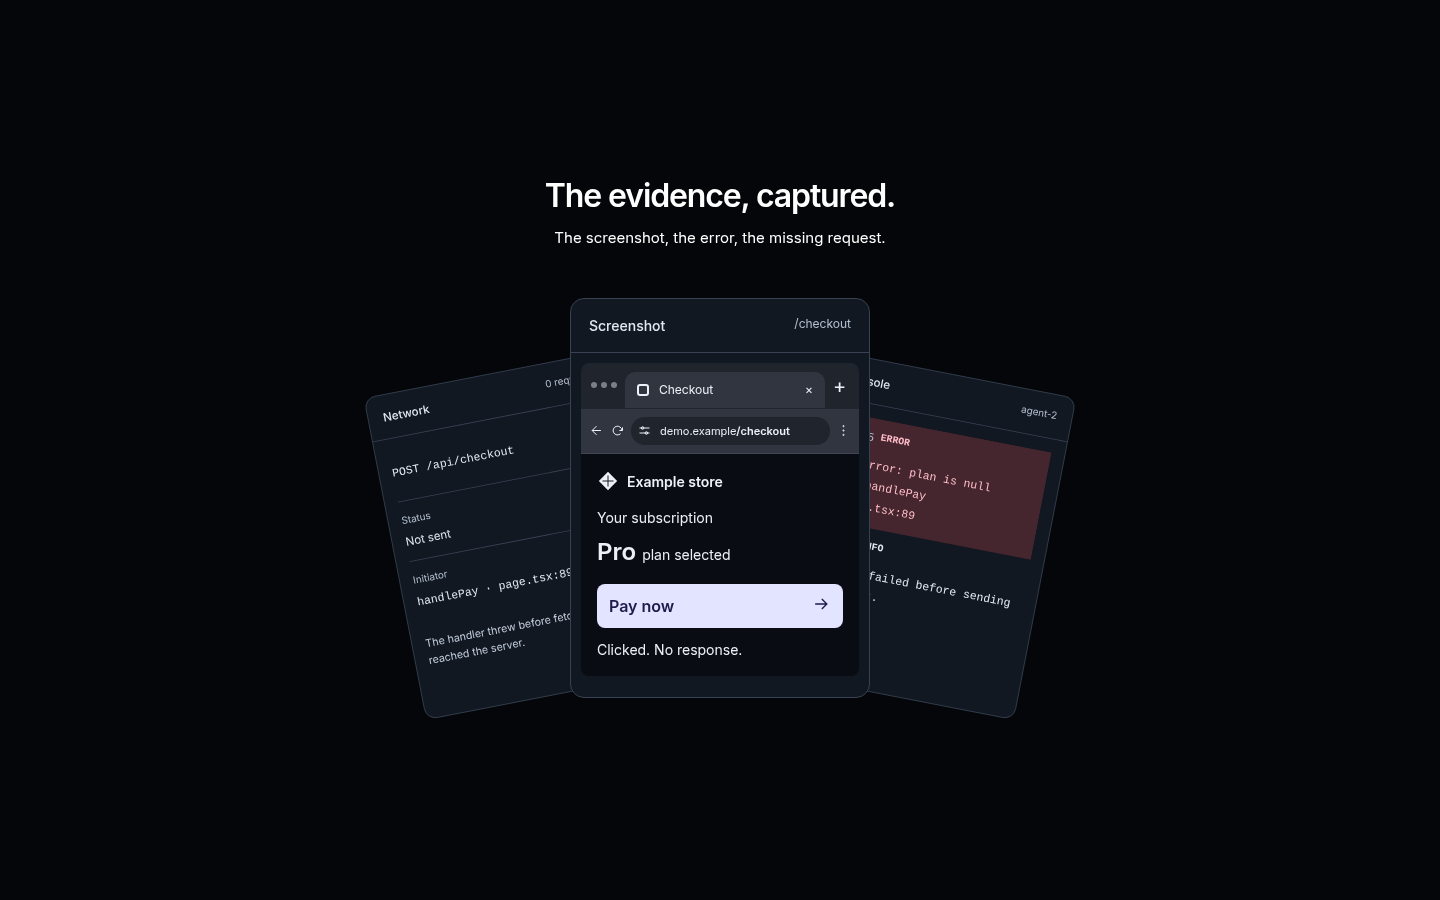
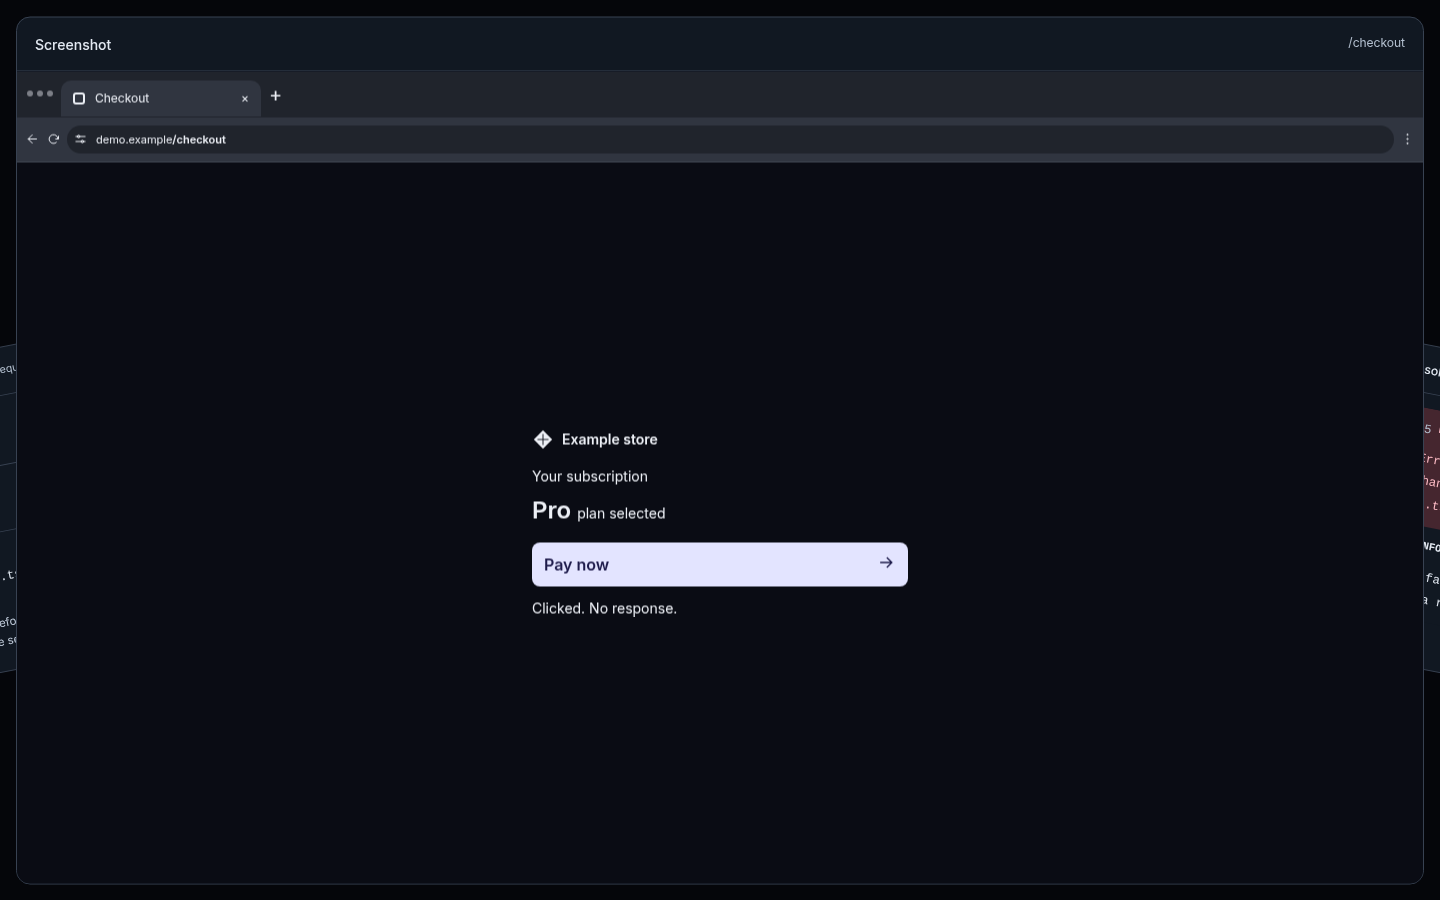
Expand evidence playing cards into viewport-sized browser and tool windows

diff --git a/app/globals.css b/app/globals.css
@@ -279,7 +279,7 @@ body {
 .sample-store-icon { width: 22px; height: 22px; flex-shrink: 0; }
 .sample-pay-arrow { width: 20px; height: 20px; fill: none; stroke: currentColor; stroke-width: 1.6; flex-shrink: 0; }
 
-/* The entire scene stays centered for four scroll beats, then leaves with its runway. */
+/* Scenes stay centered through their scroll beats, then leave with the runway. */
 .run-branch { display: inline-flex; align-items: center; gap: 7px; flex-wrap: wrap; font-size: 13px; font-weight: 500; }
 .run-scroll-sequence { margin-top: 64px; }
 .run-scene { padding-block: 48px; }
@@ -340,5 +340,22 @@ html[data-run-pinned] nav[aria-label="Main navigation"] { visibility: hidden; po
 .evidence-network dd { font-size: 14px; overflow-wrap: anywhere; }
 .evidence-network-note { margin-top: 16px; color: #c3cedd; font-size: 13px; line-height: 1.6; }
 [data-pinned] .evidence-fan { position: relative; display: block; height: 440px; perspective: 1000px; }
-[data-pinned] .evidence-card { position: absolute; top: 24px; left: 50%; width: min(300px, 78%); height: 400px; min-height: 0; transform-origin: 50% 70%; transform: translateX(-50%) translate(var(--card-x, 0px), var(--card-y, 14px)) rotate(var(--card-rotate, 0deg)) scale(var(--card-scale, .82)); transition: transform 650ms cubic-bezier(0.16, 1, 0.3, 1); }
+[data-pinned] .evidence-card { position: absolute; top: 50%; left: 50%; width: var(--card-width, 260px); height: var(--card-height, 364px); min-height: 0; transform-origin: 50% 50%; transform: translate(-50%, -50%) translate(var(--card-x, 0px), var(--card-y, 14px)) rotate(var(--card-rotate, 0deg)) scale(var(--card-scale, .88)); transition: width 700ms cubic-bezier(0.16, 1, 0.3, 1), height 700ms cubic-bezier(0.16, 1, 0.3, 1), transform 700ms cubic-bezier(0.16, 1, 0.3, 1); }
+/* The frame clips parked cards at the viewport edge, without creating page overflow. */
+[data-pinned] .run-pinned-frame { width: 100vw; margin-left: calc(50% - 50vw); padding-inline: 24px; overflow: clip; }
+.run-scene-caption { transition: opacity 200ms ease; }
+[data-pinned] article:has([data-evidence-fan][data-front]:not([data-front="-1"])) > .run-scene-caption { opacity: 0; }
+[data-pinned] .evidence-card[data-front="true"] > .evidence-card-body { height: calc(100% - 53px); padding: 24px; }
+[data-pinned] .evidence-card[data-front="true"] > .evidence-browser { padding: 0; }
+[data-pinned] .evidence-card[data-front="true"] .sample-checkout { height: 100%; display: flex; flex-direction: column; border-radius: 0; }
+[data-pinned] .evidence-card[data-front="true"] .sample-checkout-body { flex: 1; display: flex; flex-direction: column; justify-content: center; width: min(100%, 440px); margin-inline: auto; padding: 32px; }
+[data-pinned] .evidence-card[data-front="true"] .sample-pay { width: 100%; max-width: none; }
+[data-pinned] .evidence-card[data-front="true"] .evidence-request { font-size: 16px; padding-bottom: 32px; }
+[data-pinned] .evidence-card[data-front="true"] .evidence-network-note { max-width: 60ch; }
+@media (min-width: 768px) {
+  [data-pinned] .evidence-card[data-front="true"] .run-log-entry { grid-template-columns: 5ch 5ch minmax(0, 1fr); padding: 16px; }
+  [data-pinned] .evidence-card[data-front="true"] .run-log-entry > span:last-of-type { grid-column: auto; }
+  [data-pinned] .evidence-card[data-front="true"] .evidence-network dl { display: grid; grid-template-columns: 1fr 1fr; gap: 32px; }
+}
+
 @media (prefers-reduced-motion: reduce) { .evidence-card { transition: none !important; transform: none !important; } }

diff --git a/components/RunScrollSequence.tsx b/components/RunScrollSequence.tsx
@@ -79,24 +79,55 @@ export default function RunScrollSequence({
         const open = Math.min(1, local / 0.7);
         const front = local < 1 ? -1 : Math.min(2, Math.floor(local - 1));
         fan.dataset.front = String(front);
-        const cardWidth = cards[0].offsetWidth;
-        const cardHeight = cards[0].offsetHeight;
+        const cardWidth = Math.min(260, fan.clientWidth * 0.7);
+        const cardHeight = cardWidth * 1.4;
         const spread = Math.max(
           12,
-          (fan.clientWidth - (cardWidth * 0.982 + cardHeight * 0.191) * 0.82) /
+          (fan.clientWidth - (cardWidth * 0.982 + cardHeight * 0.191) * 0.88) /
             2 -
             6,
         );
+        const captionHeight =
+          fan.closest<HTMLElement>(".run-scene-content")!.offsetHeight -
+          fan.offsetHeight;
+        const availableWidth = window.innerWidth - 32;
+        const availableHeight = window.innerHeight - 32;
+        const windows = [
+          { width: availableWidth, height: availableHeight },
+          {
+            width: Math.min(1000, availableWidth),
+            height: Math.min(600, availableHeight - 32),
+          },
+          {
+            width: Math.min(1200, availableWidth),
+            height: Math.min(720, availableHeight - 16),
+          },
+        ];
         cards.forEach((card, index) => {
           let side = index - 1;
           if (front >= 0)
             side = index === front ? 0 : (index - front + 3) % 3 === 1 ? 1 : -1;
           const focused = index === front;
           card.dataset.front = String(focused);
-          card.style.setProperty("--card-x", `${side * spread * open}px`);
+          const parked = front >= 0 && !focused;
+          const x = parked
+            ? side * (window.innerWidth / 2 + cardWidth * 0.12)
+            : side * spread * open;
+          card.style.setProperty(
+            "--card-width",
+            `${focused ? windows[index].width : cardWidth}px`,
+          );
+          card.style.setProperty(
+            "--card-height",
+            `${focused ? windows[index].height : cardHeight}px`,
+          );
+          card.style.setProperty("--card-x", `${x}px`);
           card.style.setProperty("--card-rotate", `${side * 11 * open}deg`);
-          card.style.setProperty("--card-scale", String(focused ? 1 : 0.82));
-          card.style.setProperty("--card-y", `${focused ? -8 : 14}px`);
+          card.style.setProperty("--card-scale", String(focused ? 1 : 0.88));
+          card.style.setProperty(
+            "--card-y",
+            `${focused ? -captionHeight / 2 : 14}px`,
+          );
           card.style.zIndex = String(focused ? 4 : index === 1 ? 2 : 1);
         });
       }

diff --git a/components/RunEvidence.tsx b/components/RunEvidence.tsx
@@ -2,8 +2,6 @@
 
 import { LogBlock } from "./SampleRunBlocks";
 
-const TABS = ["Screenshot", "Console", "Network"] as const;
-
 export function CheckoutSnapshot() {
   return (
     <div

diff --git a/docs/landing-review/README.md b/docs/landing-review/README.md
@@ -1,6 +1,6 @@
 # Scroll-driven evidence fan
 
-The evidence step now shows three portrait cards instead of tabs: Screenshot, Console and Network. They unfold into a left/center/right fan. Continued scrolling brings each card into the center at full size while the others sit behind it, smaller and rotated. No glow, tint or highlight marks the selected card. The heading stays anchored; the three cards share a fixed-height stage.
+The evidence step now shows three portrait cards instead of tabs: Screenshot, Console and Network. They unfold into a left/center/right fan. Continued scrolling morphs the selected card from playing-card proportions into its own browser or tool-window dimensions. The browser fills the viewport with a 16px margin; Console opens up to 1000×600 and Network up to 1200×720, constrained to fit the screen. Other cards retain their playing-card proportions and move to the viewport edges. Reverse scrolling returns to the fan. No glow, tint or highlight marks the selected card. The heading stays anchored; the three cards share a fixed-height stage.
 
 The browser, evidence, diagnosis and PR still form one centered pinned sequence. Evidence gets four scroll beats: fan opening, screenshot forward, console forward and network forward. The page releases after the PR. Native scrolling remains in place, and the floating site nav is hidden during the sequence.
 
@@ -8,7 +8,7 @@ Reduced motion, JavaScript-disabled browsers and short viewports show the three 
 
 ## Evidence sequence
 
-| Viewport / theme | Fan opens | Screenshot forward | Console forward | Network forward |
+| Viewport / theme | Fan opens | Browser window | Console window | Network window |
 | --- | --- | --- | --- | --- |
 | 1440 × 900 / light | [View](fan/1440-light-0.png) | [View](fan/1440-light-1.png) | [View](fan/1440-light-2.png) | [View](fan/1440-light-3.png) |
 | 1440 × 900 / dark | [View](fan/1440-dark-0.png) | [View](fan/1440-dark-1.png) | [View](fan/1440-dark-2.png) | [View](fan/1440-dark-3.png) |
@@ -30,7 +30,8 @@ These after images show the reduced-motion stacked fallback. Before images use t
 ## Verification
 
 - Installation, typecheck, production build and diff checks pass. The repository has no lint or test scripts.
-- All three viewport sizes in both themes: fan opens; each card grows and comes forward in order; caption position stays fixed; front-card content is not clipped; no horizontal overflow; the pinned sequence releases afterward. See fan-verification.jsonl.
+- All three viewport sizes in both themes: each card expands to its actual window dimensions; windows stay centered and inside the viewport; other cards park at the sides in playing-card proportions; reverse scrolling restores the fan; no clipped window content or horizontal document overflow. See expanded-verification.jsonl.
+- Width, height and transform animate together over 700ms. The heading fades while a window is expanded so it stays out of the way. The pinned stage keeps its reserved height during the expansion.
 - Reduced motion and JavaScript-disabled checks confirm all three cards remain readable without transforms or pinning.
 - Axe WCAG A/AA checks, including text contrast, pass in both themes with no violations or incomplete checks. The stacked fallback exposes all three cards to the audit. See accessibility.jsonl.
 - CTA destinations remain `#early-access`, `#how-it-works` and `/login`. Privacy, Terms and For agents work. Blog and authenticated flows require external credentials; those integrations remain untested here.
